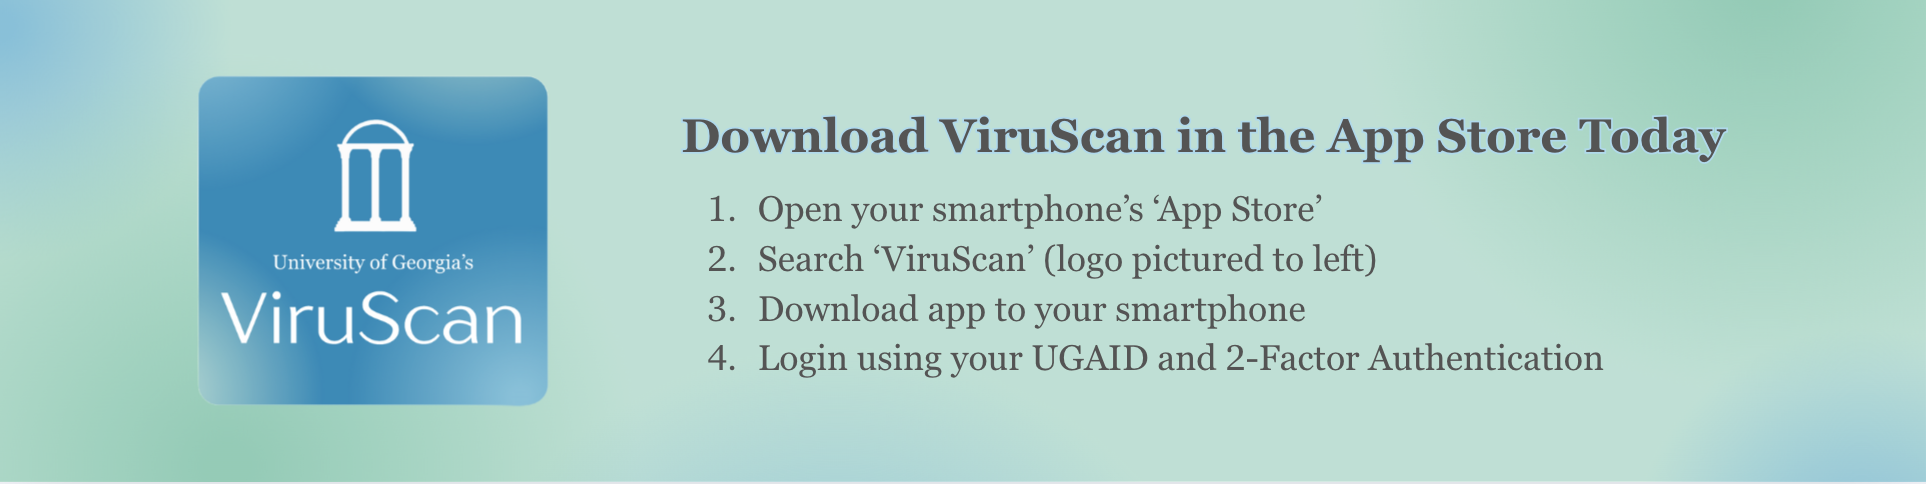
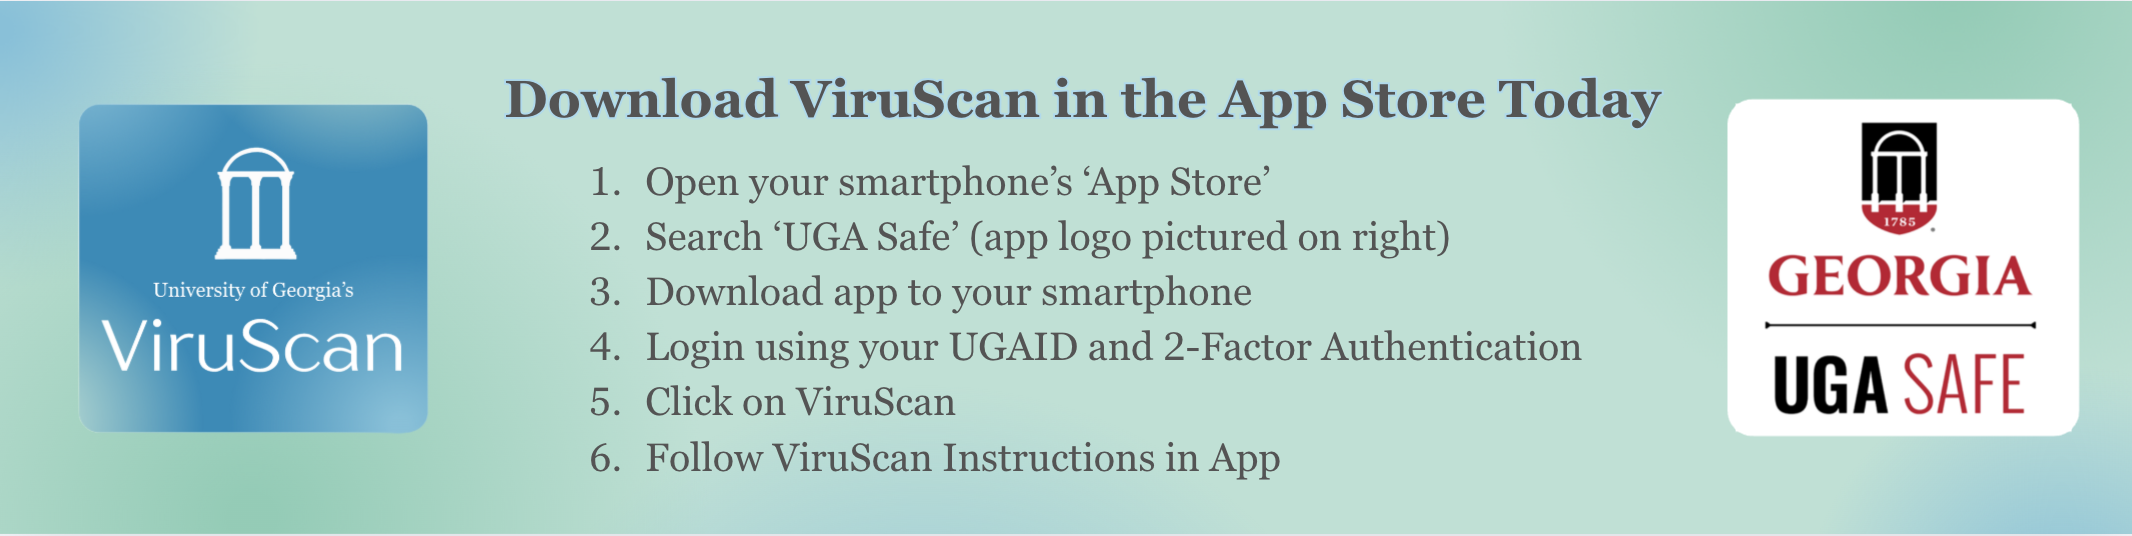
Updates 9/15
Added rhinovirus infographic, updated download instructions

diff --git a/docs/Dashboards/Rhinovirus.html b/docs/Dashboards/Rhinovirus.html
@@ -741,6 +741,12 @@ ul.task-list li input[type="checkbox"] {
 </div><section id="about-rhinovirus-common-cold" class="level2">
 <h2 class="anchored" data-anchor-id="about-rhinovirus-common-cold">About Rhinovirus (Common Cold)</h2>
 <p>The information below in the infographic came from the Centers for Disease Control &amp; Prevention. This information is not meant to replace seeking guidance from a healthcare provider. If you are feeling ill or have questions, please call your healthcare provider or the University Health Center.</p>
+<div class="quarto-figure quarto-figure-center">
+<figure class="figure">
+<p><img src="Rhinovirusinfographic.png" class="img-fluid figure-img"></p>
+<figcaption>Rhinovirus Infographic</figcaption>
+</figure>
+</div>
 
 
 </section>
